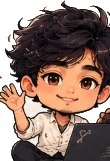
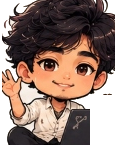
fix(chibi): re-crop authentic companion poses with clean alpha transparency and proper alignment

diff --git a/src/components/companion/ChibiCompanion.tsx b/src/components/companion/ChibiCompanion.tsx
@@ -1,19 +1,30 @@
-import React, { useState, useEffect } from 'react';
+import React, { useState, useEffect, useRef } from 'react';
+import { ChibiState } from '../../types/chibi';
+import { ChibiArtwork } from './ChibiArtwork';
 import { VedaGuidePanel } from './VedaGuidePanel';
-import { Bot, Sparkles, ChevronUp } from 'lucide-react';
+import { Bot, ChevronDown, ChevronUp, Sparkles } from 'lucide-react';
 
 interface ChibiCompanionProps {
   activeSection: string;
 }
 
 export const ChibiCompanion: React.FC<ChibiCompanionProps> = ({ activeSection }) => {
+  const [chibiState, setChibiState] = useState<ChibiState>('greeting');
   const [isDialogueOpen, setIsDialogueOpen] = useState(false);
+  const [isMinimized, setIsMinimized] = useState(false);
+  const [clickCount, setClickCount] = useState(0);
+  const [hasUnlockedEasterEgg, setHasUnlockedEasterEgg] = useState(false);
   const [guideInitialMode, setGuideInitialMode] = useState<'chat' | 'tour'>('chat');
+
+  const inactivityTimerRef = useRef<number | null>(null);
+  const userOverrideRef = useRef<boolean>(false);
+  const clickTimerRef = useRef<number | null>(null);
 
   // Listen for global custom open event (e.g. from Hero CTA buttons or navigation)
   useEffect(() => {
     const handleOpenGuide = (e: Event) => {
       const customEvent = e as CustomEvent<{ mode?: 'chat' | 'tour' }>;
+      setIsMinimized(false);
       setIsDialogueOpen(true);
       if (customEvent.detail?.mode) {
         setGuideInitialMode(customEvent.detail.mode);
@@ -24,6 +35,121 @@ export const ChibiCompanion: React.FC<ChibiCompanionProps> = ({ activeSection })
     return () => window.removeEventListener('open-veda-guide', handleOpenGuide);
   }, []);
 
+  // Section-aware automatic state updates (subtle and debounced)
+  useEffect(() => {
+    if (userOverrideRef.current || chibiState === 'sleeping' || chibiState === 'celebrating') {
+      return;
+    }
+
+    const timer = setTimeout(() => {
+      switch (activeSection) {
+        case 'hero':
+          setChibiState('greeting');
+          break;
+        case 'about':
+          setChibiState('explaining');
+          break;
+        case 'projects':
+          setChibiState('coding');
+          break;
+        case 'veda':
+          setChibiState('thinking');
+          break;
+        case 'skills':
+          setChibiState('engineering');
+          break;
+        case 'journey':
+          setChibiState('happy');
+          break;
+        case 'credentials':
+          setChibiState('explaining');
+          break;
+        case 'experiments':
+          setChibiState('engineering');
+          break;
+        case 'contact':
+          setChibiState('greeting');
+          break;
+        default:
+          setChibiState('idle');
+      }
+    }, 250);
+
+    return () => clearTimeout(timer);
+  }, [activeSection]);
+
+  // Inactivity Detection: Sleep after 45 seconds of no activity
+  const resetInactivityTimer = () => {
+    if (chibiState === 'sleeping') {
+      setChibiState('greeting');
+      userOverrideRef.current = false;
+    }
+
+    if (inactivityTimerRef.current) {
+      window.clearTimeout(inactivityTimerRef.current);
+    }
+
+    inactivityTimerRef.current = window.setTimeout(() => {
+      setChibiState('sleeping');
+    }, 45000);
+  };
+
+  useEffect(() => {
+    const events = ['mousemove', 'keydown', 'scroll', 'touchstart'];
+    events.forEach(evt => window.addEventListener(evt, resetInactivityTimer, { passive: true }));
+    resetInactivityTimer();
+
+    return () => {
+      events.forEach(evt => window.removeEventListener(evt, resetInactivityTimer));
+      if (inactivityTimerRef.current) window.clearTimeout(inactivityTimerRef.current);
+    };
+  }, [chibiState]);
+
+  // Handle clicking on the Chibi character
+  const handleChibiClick = () => {
+    resetInactivityTimer();
+
+    if (chibiState === 'sleeping') {
+      setChibiState('greeting');
+      setIsDialogueOpen(true);
+      return;
+    }
+
+    const newCount = clickCount + 1;
+    setClickCount(newCount);
+
+    if (clickTimerRef.current) clearTimeout(clickTimerRef.current);
+    clickTimerRef.current = window.setTimeout(() => {
+      setClickCount(0);
+    }, 3000);
+
+    if (newCount >= 5) {
+      setChibiState('celebrating');
+      setHasUnlockedEasterEgg(true);
+      setIsDialogueOpen(true);
+      setClickCount(0);
+      userOverrideRef.current = true;
+
+      setTimeout(() => {
+        setChibiState('happy');
+        userOverrideRef.current = false;
+      }, 7000);
+      return;
+    }
+
+    // Toggle guide panel
+    setIsDialogueOpen(!isDialogueOpen);
+
+    const states: ChibiState[] = ['happy', 'thinking', 'coding', 'engineering', 'explaining'];
+    const next = states[Math.floor(Math.random() * states.length)];
+    setChibiState(next);
+    userOverrideRef.current = true;
+
+    setTimeout(() => {
+      userOverrideRef.current = false;
+    }, 4000);
+  };
+
   const handleNavigate = (sectionId: string) => {
     const el = document.getElementById(sectionId);
     if (el) {
@@ -31,10 +157,32 @@ export const ChibiCompanion: React.FC<ChibiCompanionProps> = ({ activeSection })
     }
   };
 
+  // If minimized to compact floating button
+  if (isMinimized) {
+    return (
+      <div className="fixed bottom-4 right-4 sm:bottom-5 sm:right-5 z-40 select-none">
+        <button
+          onClick={() => {
+            setIsMinimized(false);
+            setIsDialogueOpen(true);
+          }}
+          className="flex items-center space-x-2 px-3.5 py-2 rounded-full bg-cream-surface/95 dark:bg-[#2A0E1A]/95 hover:bg-burgundy text-wine dark:text-cream hover:text-cream border border-burgundy/25 dark:border-white/20 shadow-xl backdrop-blur-md text-xs font-mono transition-transform hover:scale-105 active:scale-95"
+          title="Restore V.E.D.A. Guide Companion"
+          aria-label="Expand V.E.D.A. companion"
+        >
+          <span className="w-2 h-2 rounded-full bg-emerald-500 animate-pulse" />
+          <Bot className="w-4 h-4 text-emerald-600 dark:text-emerald-400" />
+          <span className="font-semibold">V.E.D.A. Guide</span>
+          <ChevronUp className="w-3.5 h-3.5 text-dusky" />
+        </button>
+      </div>
+    );
+  }
+
   return (
     <aside
-      className="fixed bottom-4 right-3 sm:bottom-5 sm:right-5 z-40 flex flex-col items-end pointer-events-none select-none"
-      aria-label="V.E.D.A. AI Portfolio Guide"
+      className="chibi-companion fixed bottom-3 right-3 sm:bottom-4 sm:right-4 z-40 flex flex-col items-end pointer-events-none select-none"
+      aria-label="Interactive V.E.D.A. portfolio companion"
     >
       {/* V.E.D.A. Guide Conversation & Walkthrough Panel */}
       {isDialogueOpen && (
@@ -48,20 +196,51 @@ export const ChibiCompanion: React.FC<ChibiCompanionProps> = ({ activeSection })
         </div>
       )}
 
-      {/* Floating Modern V.E.D.A. Guide Pill (No Chibi, No Character Sticker) */}
+      {/* Floating Modern V.E.D.A. Guide Pill */}
       {!isDialogueOpen && (
         <button
           onClick={() => setIsDialogueOpen(true)}
-          className="pointer-events-auto px-4 py-2.5 rounded-full bg-cream-surface/95 dark:bg-[#2A0E1A]/95 hover:bg-burgundy text-wine dark:text-cream hover:text-cream border border-burgundy/25 dark:border-white/20 shadow-cad hover:shadow-xl backdrop-blur-md text-xs font-mono font-semibold flex items-center gap-2 transition-all duration-300 transform hover:scale-105 active:scale-95 group"
+          className="pointer-events-auto mb-1.5 px-3 py-1.5 rounded-full bg-cream-surface/95 dark:bg-[#2A0E1A]/95 hover:bg-burgundy text-wine dark:text-cream hover:text-cream border border-burgundy/20 dark:border-white/15 shadow-md text-xs font-mono flex items-center gap-1.5 backdrop-blur-sm transition-all duration-200 transform hover:scale-105 active:scale-95 group"
           title="Open V.E.D.A. Portfolio Guide"
           aria-label="Open V.E.D.A. Portfolio Guide"
         >
-          <span className="w-2 h-2 rounded-full bg-emerald-500 animate-pulse" />
-          <Bot className="w-4 h-4 text-emerald-600 group-hover:text-cream transition-colors" />
-          <span>Ask V.E.D.A. for guides</span>
+          <span className="w-1.5 h-1.5 rounded-full bg-emerald-500 animate-pulse" />
+          <Bot className="w-3.5 h-3.5 text-emerald-600 dark:text-emerald-400 group-hover:text-cream transition-colors" />
+          <span className="font-semibold">Ask V.E.D.A. for guides</span>
           <Sparkles className="w-3 h-3 text-dusky group-hover:text-amber-300" />
         </button>
       )}
+
+      {/* Chibi Character in Small, Subtle Companion Footprint */}
+      <div className="pointer-events-auto relative flex flex-col items-end">
+        {/* Subtle Dock minimize button */}
+        <button
+          onClick={() => setIsMinimized(true)}
+          className="mb-1 px-2 py-0.5 rounded-full bg-cream-surface/90 dark:bg-[#2A0E1A]/90 hover:bg-cream-darker dark:hover:bg-wine text-taupe dark:text-dusky border border-burgundy/15 dark:border-white/10 shadow-sm text-[10px] flex items-center gap-1 font-mono transition-colors"
+          title="Minimize companion"
+          aria-label="Minimize companion"
+        >
+          <ChevronDown className="w-3 h-3" />
+          <span className="text-[9px]">Dock</span>
+        </button>
+
+        {/* Chibi Character Artwork (Sized to stay subtle, authentic, and unobtrusive) */}
+        <div className="outline-none rounded-2xl cursor-pointer">
+          <ChibiArtwork
+            state={chibiState}
+            onClick={handleChibiClick}
+            isOverdrive={hasUnlockedEasterEgg}
+          />
+        </div>
+
+        {/* Unlocked Easter Egg Badge */}
+        {hasUnlockedEasterEgg && chibiState === 'celebrating' && (
+          <div className="mt-1 px-2 py-0.5 rounded-full bg-burgundy text-cream text-[9px] font-mono font-bold flex items-center gap-1 shadow-md animate-bounce">
+            <Sparkles className="w-3 h-3 text-amber-300" />
+            <span>Robotics Overdrive!</span>
+          </div>
+        )}
+      </div>
     </aside>
   );
 };
